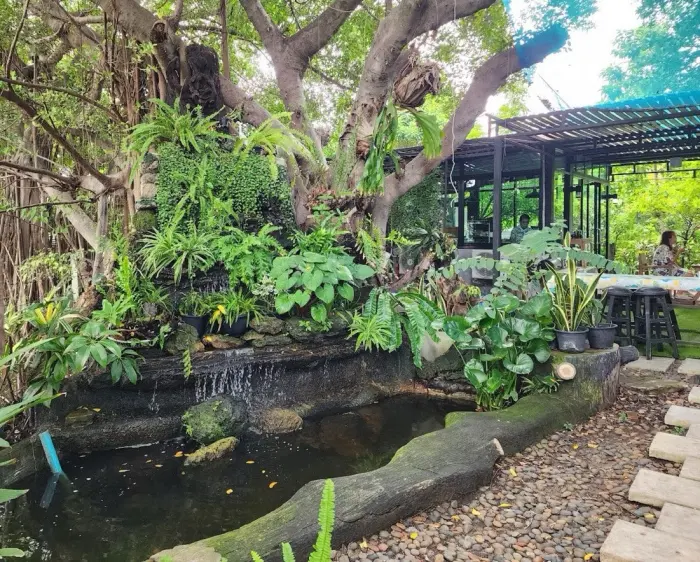
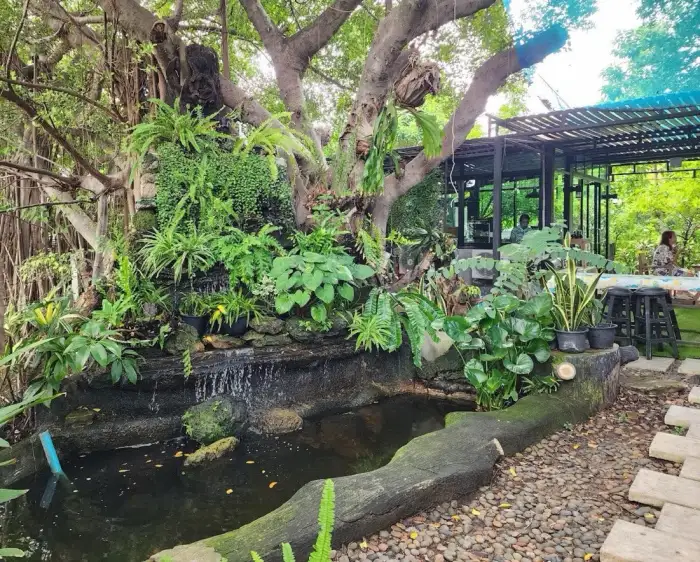
style(design): mirror the re-skin to the English homepage
Same garden hero, fact-led room cards and aligned CTAs as the Thai page,
keeping the two in sync as CLAUDE.md requires.

Also: widen the h1 measure to 20ch so the English title sets in two lines
rather than three, recompress the hero to q66 (312KB -> 261KB) and serve
the 700px variant below 760px (92KB). Homepage load 115ms -> 59ms.

Verified no change to head, meta, canonical, hreflang, OG, Twitter or
JSON-LD on either page.

diff --git a/src/en/index.html b/src/en/index.html
@@ -178,24 +178,21 @@
         </div>
     </nav>
 
-    <header class="bg-image-header py-5">
-        <div class="container px-5">
-            <div class="row gx-5 justify-content-center">
-                <div class="col-lg-6 header-text-box">
-                    <div class="text-center my-5">
-                        <h1 class="display-5 fw-bolder text-white mb-2">Baan Perm Sook Hotel · IMPACT Muang Thong</h1>
-                        <p class="lead mb-4 text-white">Just 7-10 minutes from IMPACT Arena, yet quiet enough to feel like a countryside getaway.</p>
-                        <div class="d-grid gap-3 d-sm-flex justify-content-sm-center">
-                            <a class="btn btn-primary btn-lg px-4 me-sm-3" href="https://line.me/ti/p/FI5YYjJS-X">Book on LINE</a>
-                            <a class="btn btn-outline-light btn-lg px-4" href="#contact">Contact us</a>
-                        </div>
-                        <div class="bps-hero-badges">
-                            <span class="bps-hero-badge"><i class="fas fa-star"></i> 4.2 on Google (128 reviews)</span>
-                            <span class="bps-hero-badge"><i class="fas fa-location-dot"></i> 7-10 min to IMPACT</span>
-                            <span class="bps-hero-badge"><i class="fas fa-paw"></i> Pet Friendly</span>
-                        </div>
-                    </div>
-                </div>
+    <header class="bps-hero">
+        <div class="bps-hero-inner">
+            <p class="bps-hero-eyebrow">Garden hotel · Pak Kret, Nonthaburi</p>
+            <h1 class="bps-hero-title">Baan Perm Sook Hotel · IMPACT Muang Thong</h1>
+            <p class="bps-hero-sub">Just 7-10 minutes from IMPACT Arena, yet quiet enough to feel like a
+                countryside getaway.</p>
+            <p class="bps-hero-price">From <strong>฿1,090</strong> / night · breakfast included</p>
+            <div class="bps-hero-cta">
+                <a class="btn btn-primary btn-lg" href="https://line.me/ti/p/FI5YYjJS-X">Book on LINE</a>
+                <a class="btn btn-outline-light btn-lg" href="#contact">Contact us</a>
+            </div>
+            <div class="bps-hero-badges">
+                <span class="bps-hero-badge"><i class="fas fa-star"></i> 4.2 on Google (128 reviews)</span>
+                <span class="bps-hero-badge"><i class="fas fa-location-dot"></i> 7-10 min to IMPACT</span>
+                <span class="bps-hero-badge"><i class="fas fa-paw"></i> Pet Friendly</span>
             </div>
         </div>
     </header>
@@ -264,49 +261,62 @@
             </div>
             <div class="bps-room-grid">
                 <div class="bps-room-card">
-                    <div class="bps-room-img"><img src="../assets/images/singlebed_room.webp" alt="Standard room">
-                        <span class="bps-price-tag">฿1,090 / night</span>
+                    <div class="bps-room-media">
+                        <img src="../assets/images/derived/room-standard-900.webp" width="900" height="420"
+                            loading="lazy" alt="Standard room with a queen-size bed and a window">
                     </div>
-                    <div class="bps-room-details">
-                        <h3>Standard Room</h3>
-                        <p class="room-desc">A soft queen-size bed for 2 guests. Quiet and private.</p>
-                        <div class="bps-amenities">
-                            <span><i class="fas fa-wifi"></i> Wi-Fi</span><span><i class="fas fa-snowflake"></i> AC</span>
-                            <span><i class="fas fa-tv"></i> TV</span><span><i class="fas fa-utensils"></i> Breakfast</span>
-                            <span><i class="fas fa-shower"></i> Hot water</span>
-                        </div>
-                        <a href="https://line.me/ti/p/FI5YYjJS-X" class="bps-room-btn">Book this room</a>
+                    <div class="bps-room-body">
+                        <p class="bps-room-price">฿1,090 <span>/ night · breakfast included</span></p>
+                        <h3 class="bps-room-name">Standard Room</h3>
+                        <p class="bps-room-desc">A soft queen-size bed for 2 guests. Quiet and private.</p>
+                        <ul class="bps-room-chips">
+                            <li><i class="fas fa-wifi"></i> Wi-Fi</li>
+                            <li><i class="fas fa-snowflake"></i> AC</li>
+                            <li><i class="fas fa-tv"></i> TV</li>
+                            <li><i class="fas fa-utensils"></i> Breakfast</li>
+                            <li class="bps-chip-more">+1 Hot water</li>
+                        </ul>
+                        <a href="https://line.me/ti/p/FI5YYjJS-X" class="bps-room-cta">Book this room</a>
                     </div>
                 </div>
                 <div class="bps-room-card">
-                    <div class="bps-room-img"><img src="../assets/images/family_room.jpg" alt="Family room">
-                        <span class="bps-price-tag">฿1,890 / night</span>
+                    <div class="bps-room-media">
+                        <img src="../assets/images/derived/room-family-900.webp" width="881" height="470"
+                            loading="lazy" alt="Family room with a sofa bed and a low table, sleeps four">
                     </div>
-                    <div class="bps-room-details">
-                        <h3>Family Room</h3>
-                        <p class="room-desc">Extra-spacious room for up to 4 guests — comfortable for the whole family.</p>
-                        <div class="bps-amenities">
-                            <span><i class="fas fa-user-friends"></i> 4 guests</span><span><i class="fas fa-wifi"></i> Wi-Fi</span>
-                            <span><i class="fas fa-snowflake"></i> AC</span><span><i class="fas fa-utensils"></i> Breakfast</span>
-                            <span><i class="fas fa-shower"></i> Hot water</span>
-                        </div>
-                        <a href="https://line.me/ti/p/FI5YYjJS-X" class="bps-room-btn">Book this room</a>
+                    <div class="bps-room-body">
+                        <p class="bps-room-price">฿1,890 <span>/ night · breakfast included</span></p>
+                        <h3 class="bps-room-name">Family Room</h3>
+                        <p class="bps-room-desc">Extra-spacious room for up to 4 guests — comfortable for the whole
+                            family.</p>
+                        <ul class="bps-room-chips">
+                            <li><i class="fas fa-user-friends"></i> 4 guests</li>
+                            <li><i class="fas fa-wifi"></i> Wi-Fi</li>
+                            <li><i class="fas fa-snowflake"></i> AC</li>
+                            <li><i class="fas fa-utensils"></i> Breakfast</li>
+                            <li class="bps-chip-more">+1 Hot water</li>
+                        </ul>
+                        <a href="https://line.me/ti/p/FI5YYjJS-X" class="bps-room-cta">Book this room</a>
                     </div>
                 </div>
-                <div class="bps-room-card highlight-room">
-                    <div class="bps-room-img"><img src="../assets/images/double bed.jpg" alt="Pet Friendly room">
-                        <span class="bps-price-tag">฿1,090+ / night</span>
-                        <span class="bps-pet-badge"><i class="fas fa-paw"></i> Pet Friendly</span>
+                <div class="bps-room-card">
+                    <div class="bps-room-media">
+                        <span class="bps-room-tag"><i class="fas fa-paw"></i> Pet Friendly</span>
+                        <img src="../assets/images/derived/room-pet-900.webp" width="900" height="394"
+                            loading="lazy" alt="Pet Friendly room with a large bed, close to the garden">
                     </div>
-                    <div class="bps-room-details">
-                        <h3>Pet Friendly Room</h3>
-                        <p class="room-desc">Bring your cat or dog to stay with you. Spacious, near the garden. (Pet fee 300 THB/pet.)</p>
-                        <div class="bps-amenities">
-                            <span><i class="fas fa-dog"></i> Pets OK</span><span><i class="fas fa-wifi"></i> Wi-Fi</span>
-                            <span><i class="fas fa-snowflake"></i> AC</span><span><i class="fas fa-utensils"></i> Breakfast</span>
-                            <span><i class="fas fa-shower"></i> Hot water</span>
-                        </div>
-                        <a href="https://line.me/ti/p/FI5YYjJS-X" class="bps-room-btn btn-orange">Book this room</a>
+                    <div class="bps-room-body">
+                        <p class="bps-room-price">฿1,090 <span>/ night · pet fee ฿300 per pet</span></p>
+                        <h3 class="bps-room-name">Pet Friendly Room</h3>
+                        <p class="bps-room-desc">Bring your cat or dog to stay with you. Spacious, near the garden.</p>
+                        <ul class="bps-room-chips">
+                            <li><i class="fas fa-dog"></i> Pets OK</li>
+                            <li><i class="fas fa-wifi"></i> Wi-Fi</li>
+                            <li><i class="fas fa-snowflake"></i> AC</li>
+                            <li><i class="fas fa-utensils"></i> Breakfast</li>
+                            <li class="bps-chip-more">+1 Hot water</li>
+                        </ul>
+                        <a href="https://line.me/ti/p/FI5YYjJS-X" class="bps-room-cta">Book this room</a>
                     </div>
                 </div>
             </div>

diff --git a/src/css/styles.css b/src/css/styles.css
@@ -3266,7 +3266,7 @@ section h2,
     font-weight: 700;
     line-height: 1.18;
     color: #fff;
-    max-width: 16ch;
+    max-width: 20ch;
     margin: 0 0 var(--bps-s-2);
     text-shadow: 0 2px 18px rgb(var(--bps-scrim) / 0.55);
 }
@@ -3680,5 +3680,14 @@ section h2,
         font-size: 1rem;
         line-height: 1.3;
         white-space: normal;
+    }
+}
+
+/* Mobile gets the 700px hero (92KB) instead of the 1100px one (261KB).
+   Foliage is high-entropy and compresses poorly, so serving the right size
+   matters more than pushing quality down further. */
+@media (max-width: 760px) {
+    .bps-hero {
+        background-image: url("../assets/images/derived/hero-garden-700.webp");
     }
 }
